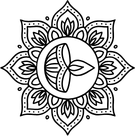
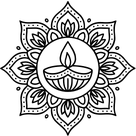
diwali sticker changes with ravi hemant gandhi

diff --git a/src/components/Printables/ShippingStickerPrinter.vue b/src/components/Printables/ShippingStickerPrinter.vue
@@ -75,8 +75,8 @@ const REQUIRED = [
 ];
 
 const SENDER = {
-  name: "Hemant Traders",
-  address: "1281, Sadashiv Peth, Vertex Arcade, Pune - 411030",
+  name: "HEMANT TRADERS",
+  address: "1281,Sadashiv Peth, Vertex Arcade, Pune-411030",
   phone: "(+91) 9422080922 / 9420699675",
 };
 
@@ -218,14 +218,14 @@ export default {
       return `
         <div class="label">
           <div class="banner">
-            <img class="orn" src="${img}" alt="">
+          
             <span class="greet">Happy Diwali</span>
-            <img class="orn" src="${img}" alt="">
+           
           </div>
 
           <div class="body">
             <div class="to">
-              <div class="tag">Ship to</div>
+              <div class="tag">To,</div>
               <div class="name" style="font-size:${this.nameSize(name)}px">${e(
         name,
       )}</div>
@@ -371,9 +371,9 @@ export default {
           text-align: center;
           gap: 2px;
         }
-        .from-name { font-size: 17px; font-weight: bold; }
-        .from-line { font-size: 11px; line-height: 1.25; }
-        .seal { width: 74px; height: 74px; margin-top: auto; }
+        .from-name { font-size: 18px; font-weight: bold; }
+        .from-line { font-size: 15px; line-height: 1.25; }
+        .seal { width: 74px; height: 74px; margin-top: auto;}
 
         /* Footer greeting */
         .wish {

diff --git a/src/components/Invoices/InvoiceDetail.vue b/src/components/Invoices/InvoiceDetail.vue
@@ -405,10 +405,10 @@ import PodManager from "@/components/Invoices/PodManager.vue";
 // TODO: move to a shared config/env file if this seller info is used elsewhere
 const MY_BUSINESS_GSTIN = "27AAVPG7824M1ZX"; // Hemant Traders - fixed seller GSTIN
 const MY_BUSINESS_NAME = "Hemant Traders";
-const MY_BUSINESS_ADDR1 = "Bhiwandi";
-const MY_BUSINESS_ADDR2 = "Bhiwandi, Maharashtra"; 
-const MY_BUSINESS_PLACE = "Bhiwandi, Maharashtra"; 
-const MY_BUSINESS_PINCODE = 421302;
+const MY_BUSINESS_ADDR1 = "1281,Sadashiv Peth,";
+const MY_BUSINESS_ADDR2 = "Vertex Arcade,"; 
+const MY_BUSINESS_PLACE = "Pune, Maharashtra"; 
+const MY_BUSINESS_PINCODE = 411030;
 const BY_HAND_VEHICLE_NO = "MH12NW0855"; // default vehicle for self-transport ("By Hand")
 
 function gstinToStateCode(gstin) {
